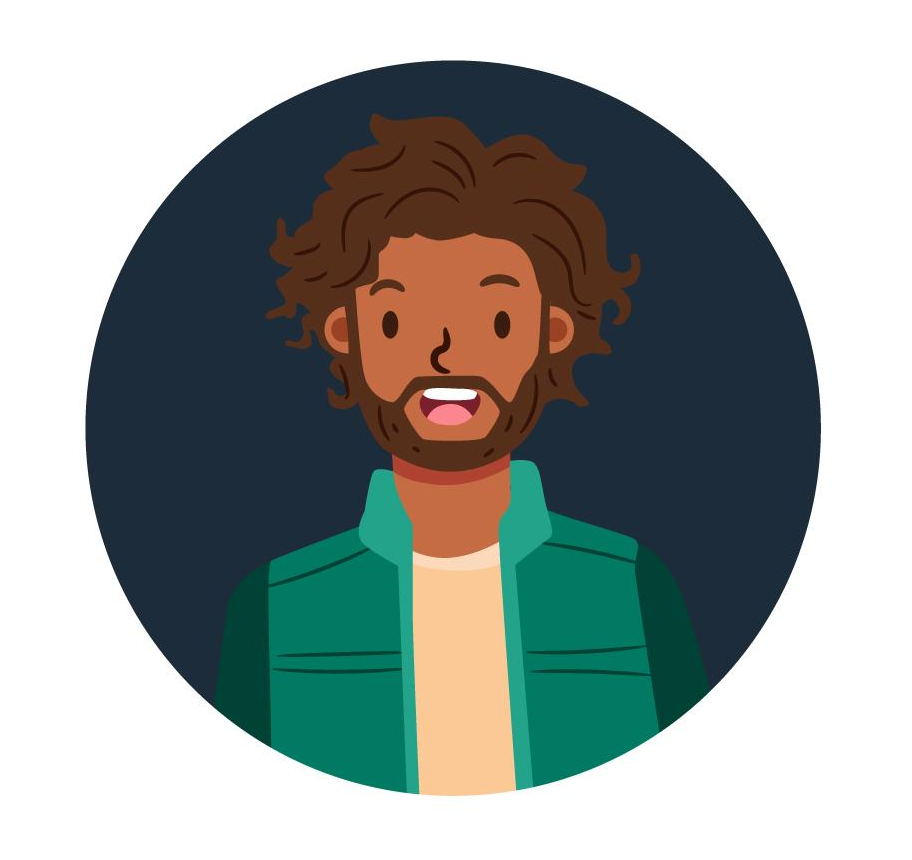
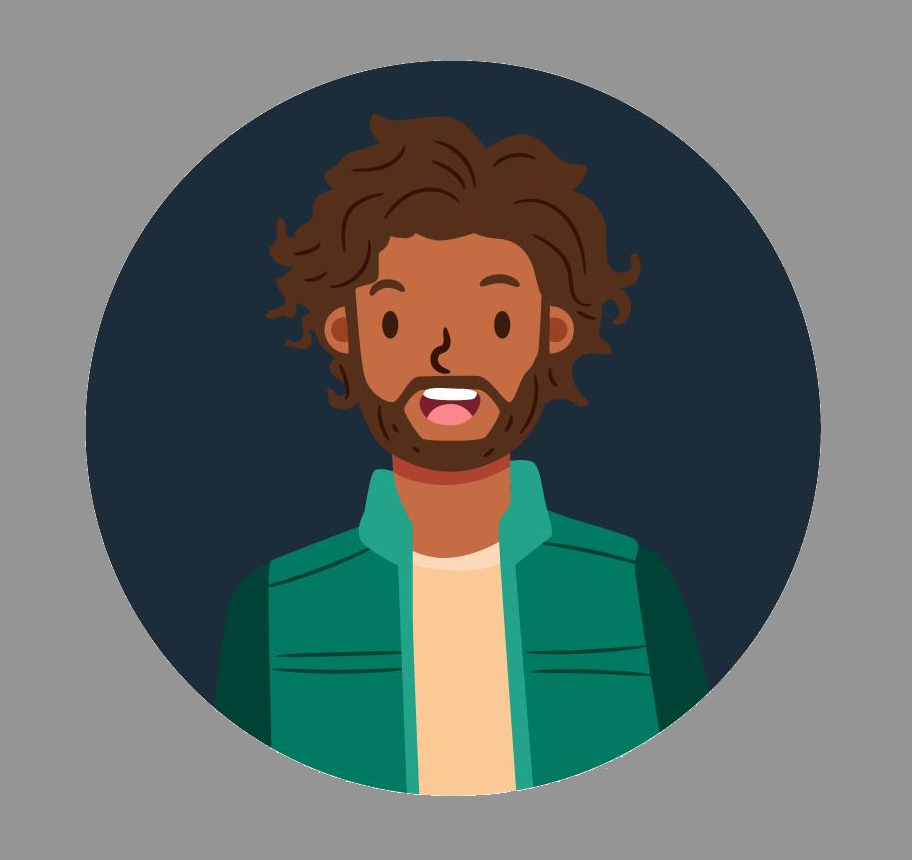
left side

diff --git a/index.html b/index.html
@@ -4,6 +4,7 @@
     <meta charset="UTF-8" />
     <meta name="viewport" content="width=device-width, initial-scale=1.0" />
     <link rel="stylesheet" href="02_CSS/main.css" />
+    <script src="script.js"></script>
     <title>AllStars !</title>
   </head>
   <body>
@@ -13,7 +14,7 @@
           <img src="" alt="logo AllStarsLogo" />
         </div>
         <div class="nav_links">
-          <img src="" alt="profile_picture" />
+          <img id="nav_picture" src="" alt="profile_picture" />
           <img src="" alt="menu_hamburger" />
         </div>
       </nav>
@@ -21,34 +22,39 @@
     <main>
       <section class="left_section">
         <div class="upper_side">
-          <img src="" alt="profile_picture" />
-          <h2>Sam Winchester</h2>
+          
+          <input type="file" accept="image/*" id="inputFile" onchange="loadImage(event)">
+          <img class="profile_picture" src="./01_Images/AvatarHomme1.png" alt="photo_de_profil"/>
+          <label for="inputFile" class="custom-file-upload">
+            <img class="add_photo" src="./01_Images/add-photo.png"></label>
+            <h2 id="name">El Kaledo<br />Del Perù</h2>
+          
           <div class="follow_block">
-            <h3>54</h3>
-            <h3>Followers</h3>
-            <h3>20</h3>
-            <h3>Followings</h3>
+            <h3>54 Followers – 20 Follows</h3>
           </div>
+          
         </div>
+        <h2 id="my_groups">My Groups</h2>
         <div class="lower_side">
-          <h2>My Groups</h2>
           <ul>
-            <li>
-              <img src="01_Images/groupe.png" alt="" />Valence Basket Club
+            <li class="display_groupe">
+              <div class="picture_groupe">
+                <img src="01_Images/groupe.png" alt="" /></div><h4><a href="#">Valence Basket Club</a></h4>
             </li>
-            <li><img src="01_Images/groupe.png" alt="" />Valence Rugby Club</li>
-            <li>
-              <img src="01_Images/groupe.png" alt="" />Wild Code Football Team
-            </li>
-            <li>
-              <img src="01_Images/groupe.png" alt="" />We love Cats and Dogs
-            </li>
-            <li>
-              <img src="01_Images/groupe.png" alt="" />Dogs are better than Cats
+            <li class="display_groupe">
+              <div class="picture_groupe">
+                <img src="01_Images/groupe.png" alt="" /></div><h4><a href="#">Valence Rugby Club</a></h4>
+            </li> <li class="display_groupe">
+              <div class="picture_groupe">
+                <img src="01_Images/groupe.png" alt="" /></div><h4><a href="#">Mimi the GOAT</a></h4>
+            </li> <li class="display_groupe">
+              <div class="picture_groupe">
+                <img src="01_Images/groupe.png" alt="" /></div><h4><a href="#">San Francisco 49ers</a></h4>
             </li>
           </ul>
         </div>
       </section>
+
       <div class="central_div">
         <div class="upper_central_div">
           <div class="favoris_players"></div>

diff --git a/02_CSS/components_CSS/02_section_left.css b/02_CSS/components_CSS/02_section_left.css
@@ -1,0 +1,86 @@
+.left_section {
+  background-color: #f5f6f7;
+  width: 15rem;
+  height: 40rem;
+  margin: 2.5rem 0 0 2rem;
+  padding-top: 1rem;
+  border-radius: 20px;
+  text-align: center;
+}
+
+
+#name {
+  padding-bottom: 1rem;
+}
+
+#my_groups {
+  padding-top: 1rem;
+}
+
+.lower_side {
+  padding-top: 1rem;
+  padding-left: 1rem;
+  padding-right: 1rem;
+  display: flex;
+  align-items: center;
+  text-align: start;
+  justify-content: space-between;
+}
+
+
+ul > li {
+  list-style: none;
+  padding-top: 0.5rem;
+}
+
+.follow_block {
+  display: flex;
+  justify-content: space-around;
+  border-top: 2px green solid;
+  border-bottom: 2px green solid;
+  padding-top: 0.5rem;
+  padding-bottom: 0.5rem;
+}
+
+
+.profile_picture {
+    display: flex;
+    border-radius: 50%;
+    width: 12em;
+    margin: auto;
+}
+
+  #inputFile {
+    display: none;
+}
+  
+.lower_side ul {
+  display: flex;
+  align-content: center;
+  flex-direction: column;
+  gap: 10px;
+}
+
+.display_groupe {
+  display: flex;
+  align-items: center;
+  gap: 10px;
+}
+
+.add_photo {
+  display: flex;
+  position: relative;
+  z-index: 6;
+  bottom: 12rem;
+  left: 1rem;
+  cursor: pointer;
+}
+
+main {
+  background-color: lightgrey;
+}
+
+a {
+  text-decoration: none;
+  color: black;
+}

diff --git a/script.js b/script.js
@@ -1,0 +1,14 @@
+// Modifier pohoto de profil
+
+function loadImage(event) {
+    const input = event.target;
+    if (input.files && input.files[0]) {
+      const reader = new FileReader();
+      reader.onload = function(e) {
+        const image = document.querySelector('.profile_picture')
+        document.querySelector("#nav_picture").src = event.target.result
+        image.src = e.target.result;
+      }
+      reader.readAsDataURL(input.files[0]);
+    }
+  }
